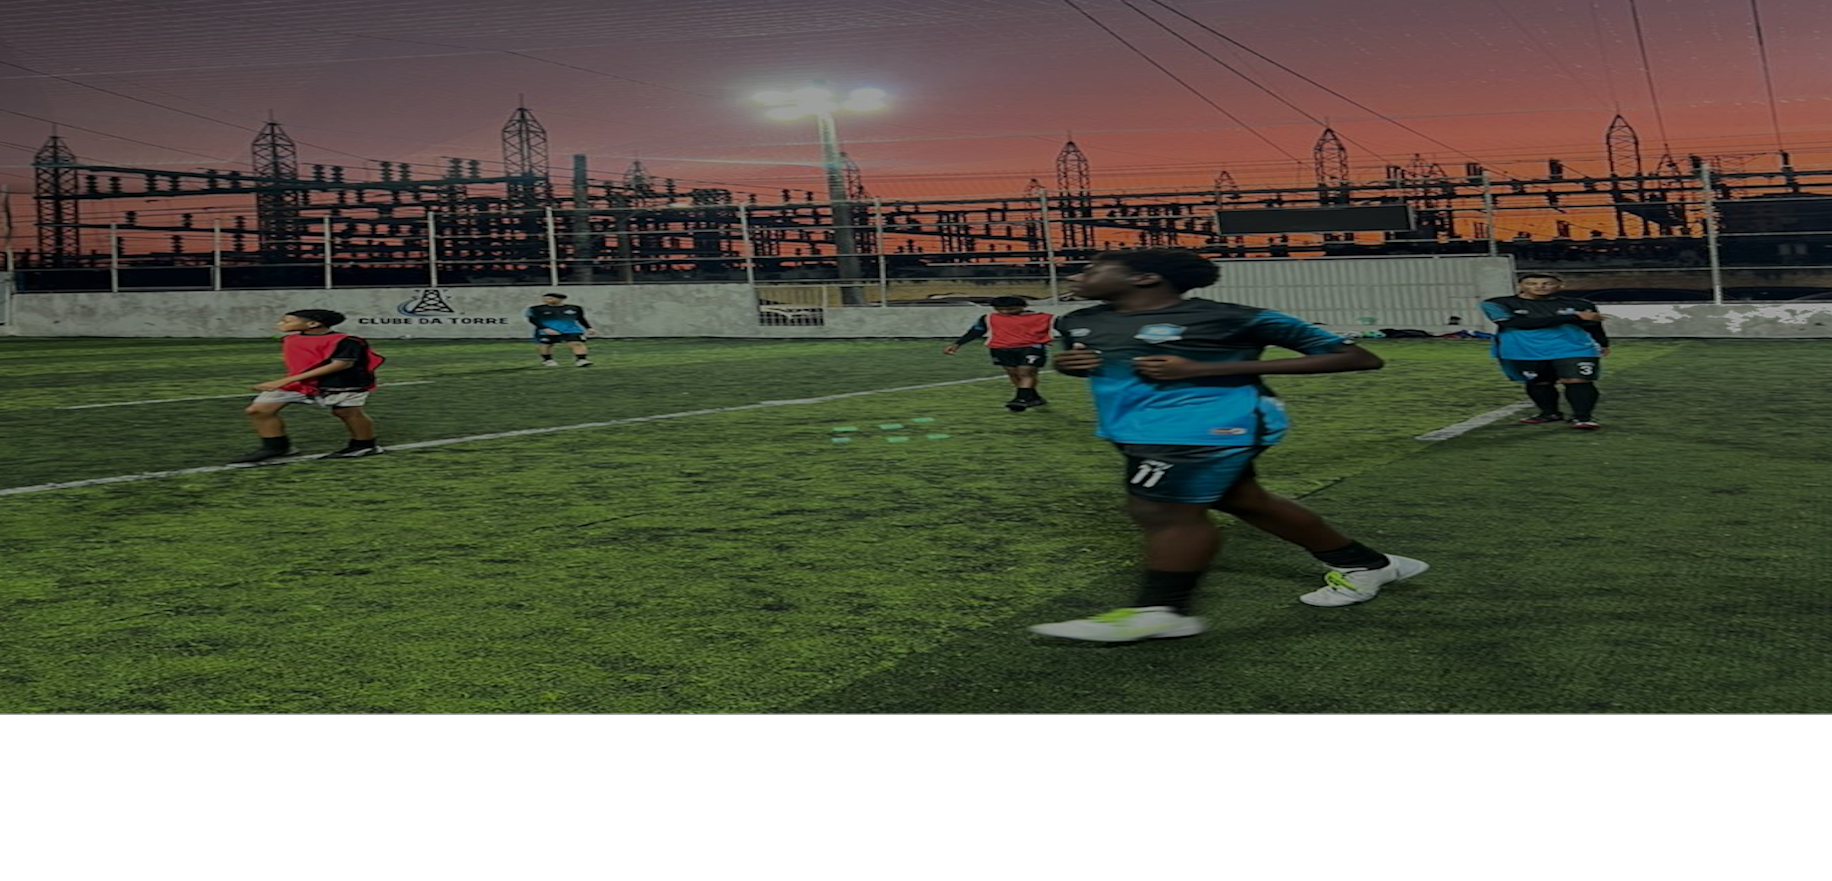
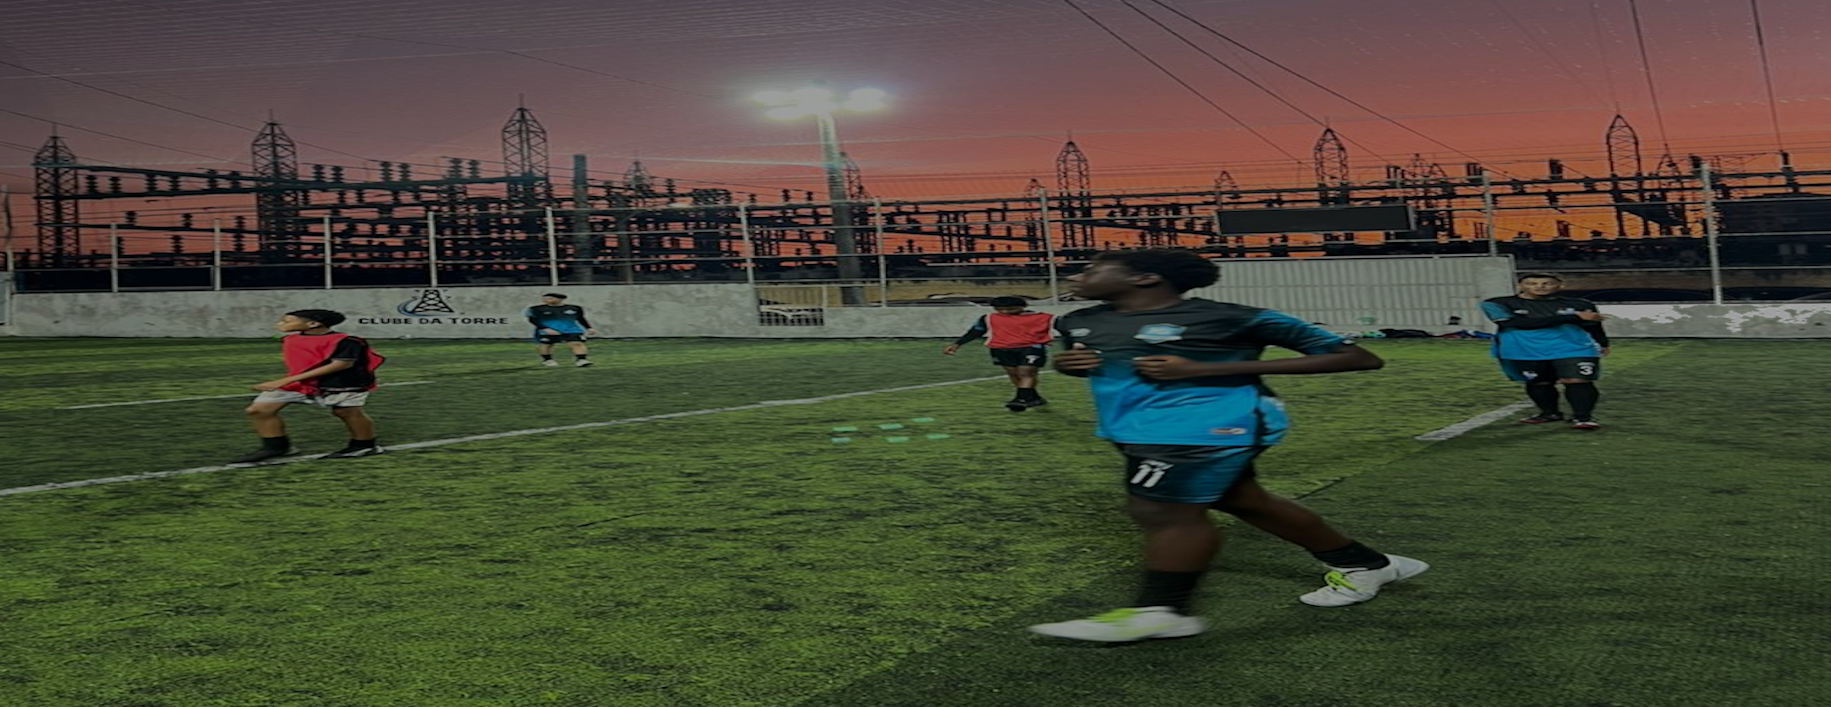
teste cover

diff --git a/aulas/escolinhaparticular/styleparticular.css b/aulas/escolinhaparticular/styleparticular.css
@@ -216,18 +216,19 @@ body {
   }
   
 
-.background { 
-  background-image: url('imgfundo.png');
-  background-size: cover;
-  height: 400px; 
-  background-position: bottom bottom;
-  background-repeat: no-repeat;
-  background-attachment: fixed;
-  text-align: center;
-  display: flex;
-  justify-content: center;
-  align-items: center;
-}
+  .background { 
+    background-image: url('imgfundo.png');
+    background-position: center center;
+    background-repeat: no-repeat;
+    background-size: cover;
+    background-attachment: fixed;
+    height: 600px; 
+    text-align: center;
+    display: flex;
+    justify-content: center;
+    align-items: center;
+   aspect-ratio: 1 3;
+  }
 
 .child h1 {
   font-family: 'bluestar';

diff --git a/styles.css b/styles.css
@@ -217,15 +217,17 @@ body {
 /*Imagem com texto*/
 .background{ 
     background-image: url('imgshome/imgcampo.JPG');
-    background-size: cover;
-    height: 550px;   
+    background-position: center center;
     background-repeat: no-repeat;
+    background-size: cover;
     background-attachment: fixed;
+    height: 550px;   
     text-align: center;
     justify-content: center;
     align-items: center;
     display: flex;
-}
+  }
+
 
 .child h1{
     font-family: 'bluestar';
